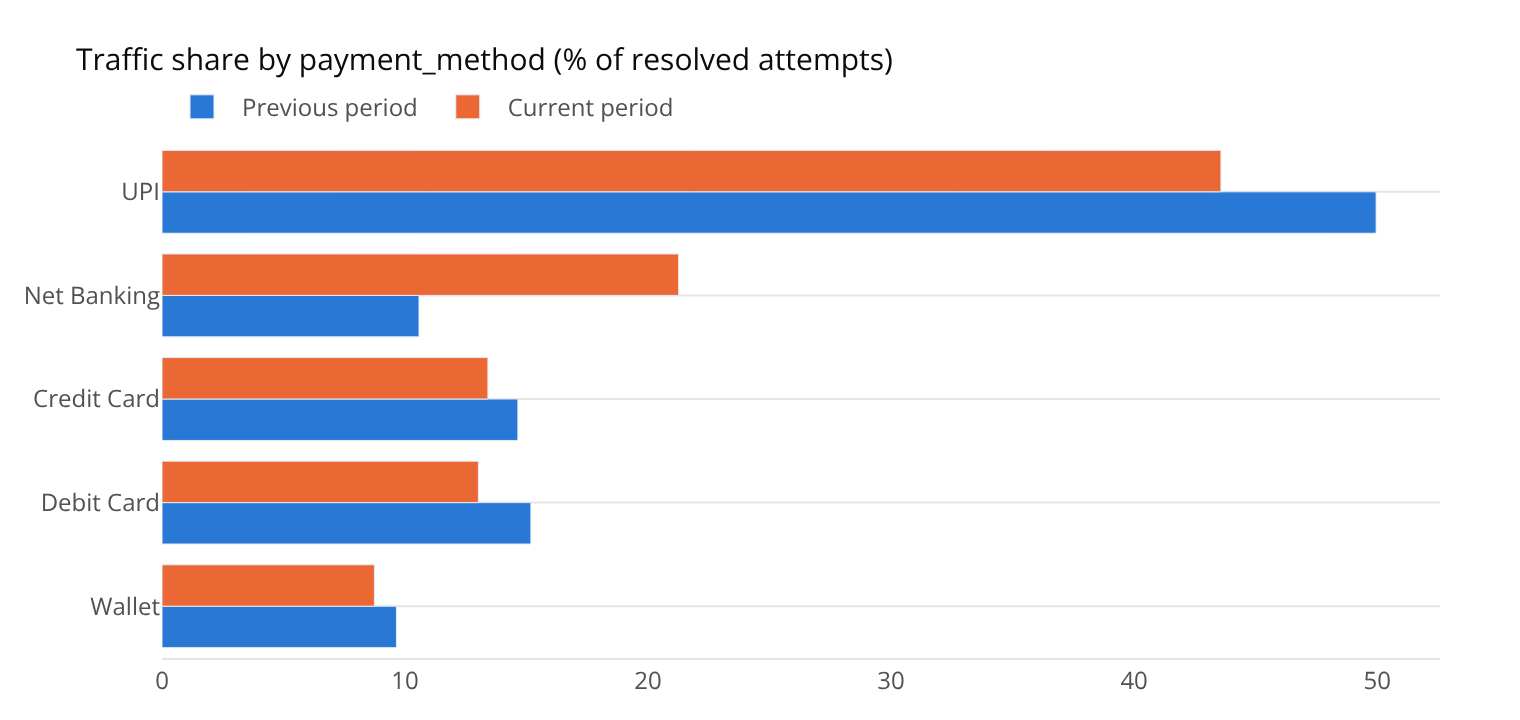
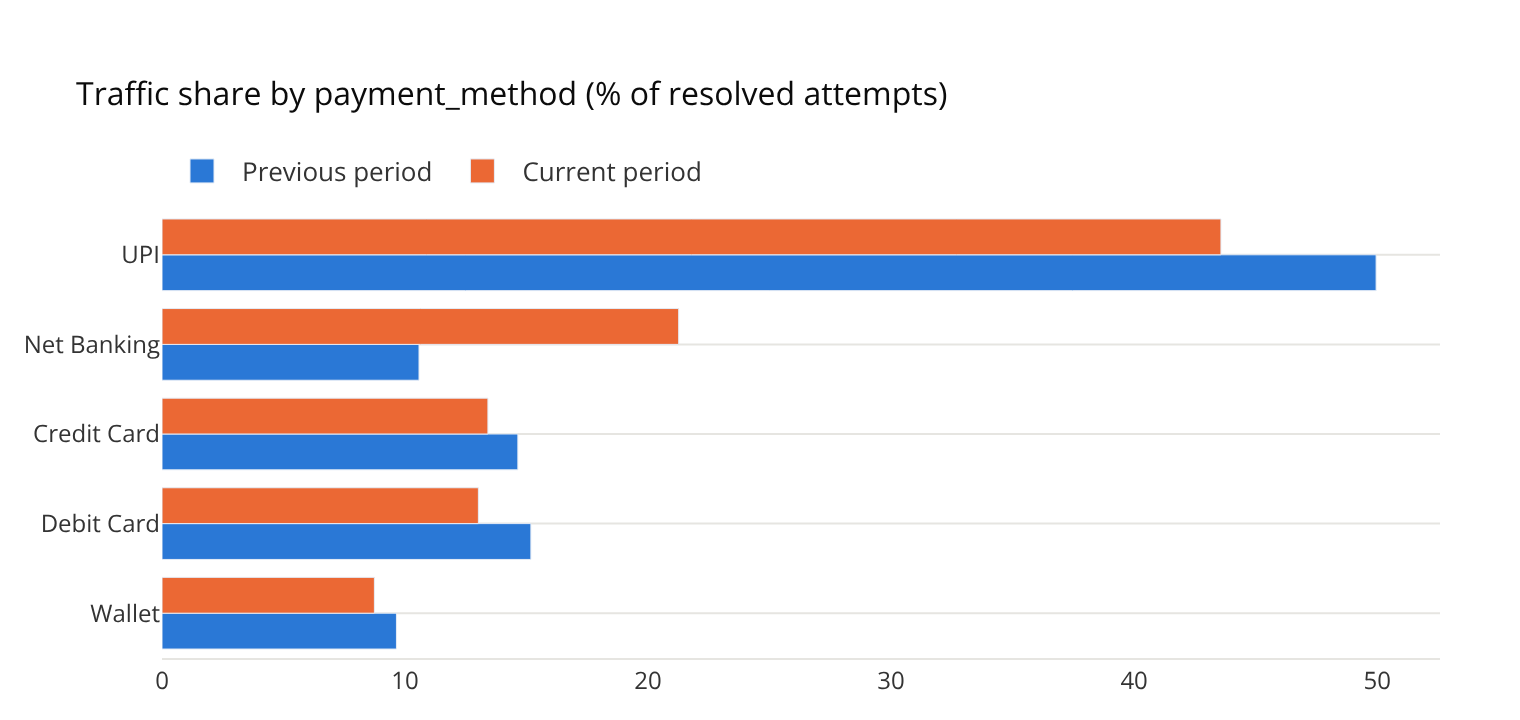
fix: readable charts in dark mode, how-to-read notes

Changed region(s): [[0.0, 0.0611, 0.9276, 0.8861]]

diff --git a/app.py b/app.py
@@ -75,19 +75,31 @@ def render_answer(out):
 
     res = out.get("analysis")
     if res and res["metric"] == "success_rate":
+        d = res["drivers"]
         c1, c2 = st.columns(2)
-        c1.plotly_chart(chart_weekly(res["weekly_trend"], res["windows"]), width="stretch")
-        c2.plotly_chart(chart_mix_rate(res["drivers"]), width="stretch")
+        c1.plotly_chart(chart_weekly(res["weekly_trend"], res["windows"]), width="stretch", theme=None)
+        c1.caption("**How to read:** each dot is one week's success rate. Orange = the period you asked "
+                   "about. A sudden drop after a flat line means something changed that week.")
+        c2.plotly_chart(chart_mix_rate(d), width="stretch", theme=None)
+        c2.caption(f"**How to read:** the total change ({d['delta_pp']} pts) split two ways, once per "
+                   "dimension. Blue = traffic moved between segments (mix). Orange = segments themselves "
+                   "got worse or better (rate). A dimension with a big blue bar explains part of the change "
+                   "by traffic shifting.")
         c3, c4 = st.columns(2)
-        m = res["drivers"].get("mix_driver")
+        m = d.get("mix_driver")
         if m:
             c3.plotly_chart(chart_segments(res["by_dimension"][m["dimension"]], m["dimension"]),
-                            width="stretch")
+                            width="stretch", theme=None)
+            c3.caption(f"**How to read:** blue = share of traffic before, orange = after. "
+                       f"{m['segment']} grew from {m['share_prev_pct']}% to {m['share_cur_pct']}%; its success "
+                       f"rate ({m['rate_cur_pct']}%) is below average, so more traffic there pulls the total down.")
         if res.get("drilldown"):
             dd = res["drilldown"]
-            c4.plotly_chart(chart_drill(dd["daily"], dd["segment"]), width="stretch")
+            c4.plotly_chart(chart_drill(dd["daily"], dd["segment"]), width="stretch", theme=None)
+            c4.caption(f"**How to read:** daily success rate of {dd['segment']} (orange) vs all others (blue). "
+                       "Where the orange line falls far below the blue one, that segment had its own problem.")
     elif res:
-        st.plotly_chart(chart_weekly(res["weekly_trend"], res["windows"]), width="stretch")
+        st.plotly_chart(chart_weekly(res["weekly_trend"], res["windows"]), width="stretch", theme=None)
 
     st.markdown("### ② Facts *(computed by code from executed queries)*")
     st.dataframe(pd.DataFrame([{k: f[k] for k in ["id", "text", "dataset", "filters", "window", "query_ids"]}
@@ -96,7 +108,7 @@ def render_answer(out):
         if "table" in f:
             fig = chart_table(f["table"], f["text"].split(":")[0])
             if fig is not None:
-                st.plotly_chart(fig, width="stretch")
+                st.plotly_chart(fig, width="stretch", theme=None)
             st.caption(f"{f['id']} result table")
             st.dataframe(f["table"], hide_index=True)
 

diff --git a/src/charts.py b/src/charts.py
@@ -7,16 +7,19 @@ import pandas as pd
 import plotly.graph_objects as go
 
 BLUE, ORANGE = "#2a78d6", "#eb6834"          # categorical slots 1 and 2 (validated palette)
-INK, MUTED, GRID = "#0b0b0b", "#52514e", "#e6e5e1"
+INK, TEXT, GRID = "#0b0b0b", "#333333", "#e6e5e1"   # dark text on a white card: readable in light AND dark mode
 
 
 def base_layout(fig, title, height=320, y_title=None):
-    fig.update_layout(title=dict(text=title, font=dict(size=15, color=INK)), height=height,
-                      margin=dict(l=20, r=40, t=70, b=20), plot_bgcolor="white", paper_bgcolor="white",
-                      font=dict(color=MUTED), hovermode="x unified",
-                      legend=dict(orientation="h", y=1.12, x=0))
-    fig.update_xaxes(showgrid=False, linecolor=GRID, automargin=True)
-    fig.update_yaxes(gridcolor=GRID, zeroline=False, title=y_title, automargin=True)
+    fig.update_layout(title=dict(text=title, font=dict(size=16, color=INK)), height=height,
+                      margin=dict(l=20, r=40, t=105, b=20), plot_bgcolor="white", paper_bgcolor="white",
+                      font=dict(size=13, color=TEXT), hovermode="x unified",
+                      legend=dict(orientation="h", yanchor="bottom", y=1.02, x=0,      # above the plot area,
+                                  font=dict(size=13, color=TEXT)))                   # never on top of the data
+    fig.update_xaxes(showgrid=False, linecolor=GRID, automargin=True, tickfont=dict(size=12, color=TEXT),
+                     title_font=dict(size=13, color=TEXT))
+    fig.update_yaxes(gridcolor=GRID, zeroline=False, title=y_title, automargin=True,
+                     tickfont=dict(size=12, color=TEXT), title_font=dict(size=13, color=TEXT))
     return fig
 
 
@@ -24,7 +27,7 @@ def chart_weekly(trend, windows):
     """One line; weeks inside the current period are highlighted in orange and labelled."""
     t = trend.copy()
     cur = windows["current"]
-    t["label"] = "Wk of " + pd.to_datetime(t["week_start"]).dt.strftime("%d %b")
+    t["label"] = pd.to_datetime(t["week_start"]).dt.strftime("%d %b")       # week starting (Monday)
     in_cur = (t["week_start"] >= cur[0]) & (t["week_start"] <= cur[1])
     fig = go.Figure(go.Scatter(
         x=t["label"], y=t["success_rate"], mode="lines+markers+text",
@@ -33,7 +36,9 @@ def chart_weekly(trend, windows):
         text=[f"{v:.2f}%" if c else "" for v, c in zip(t["success_rate"], in_cur)],
         textposition="bottom center", cliponaxis=False,
         hovertemplate="%{x}<br>Success rate %{y:.2f}%<extra></extra>"))
-    return base_layout(fig, "Weekly success rate (orange = current period)", y_title="Success rate (%)")
+    fig = base_layout(fig, "Weekly success rate (orange = current period)", y_title="Success rate (%)")
+    fig.update_xaxes(title="week starting (Monday)")
+    return fig
 
 
 def chart_mix_rate(drivers):
